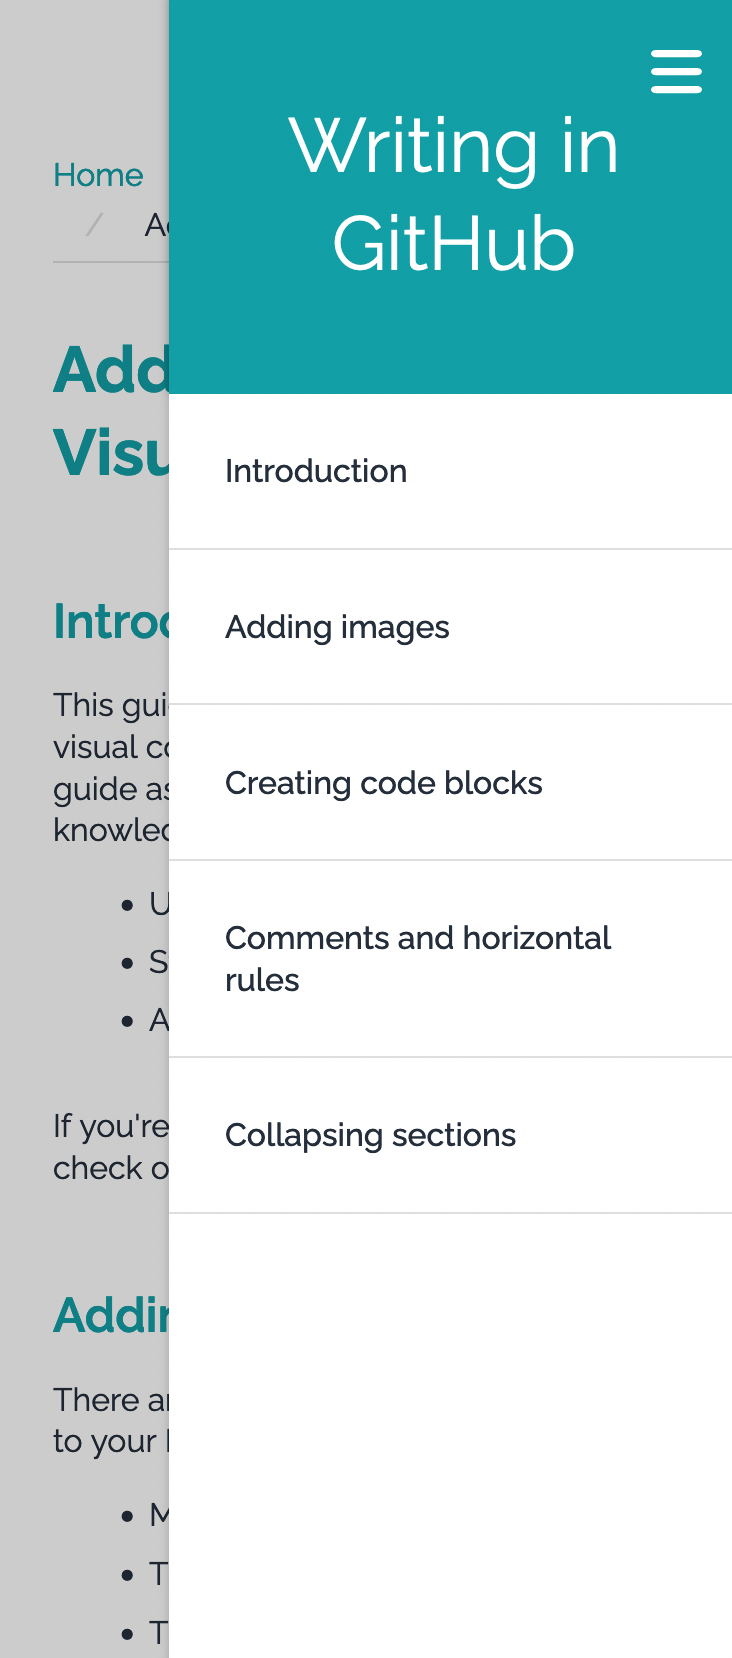
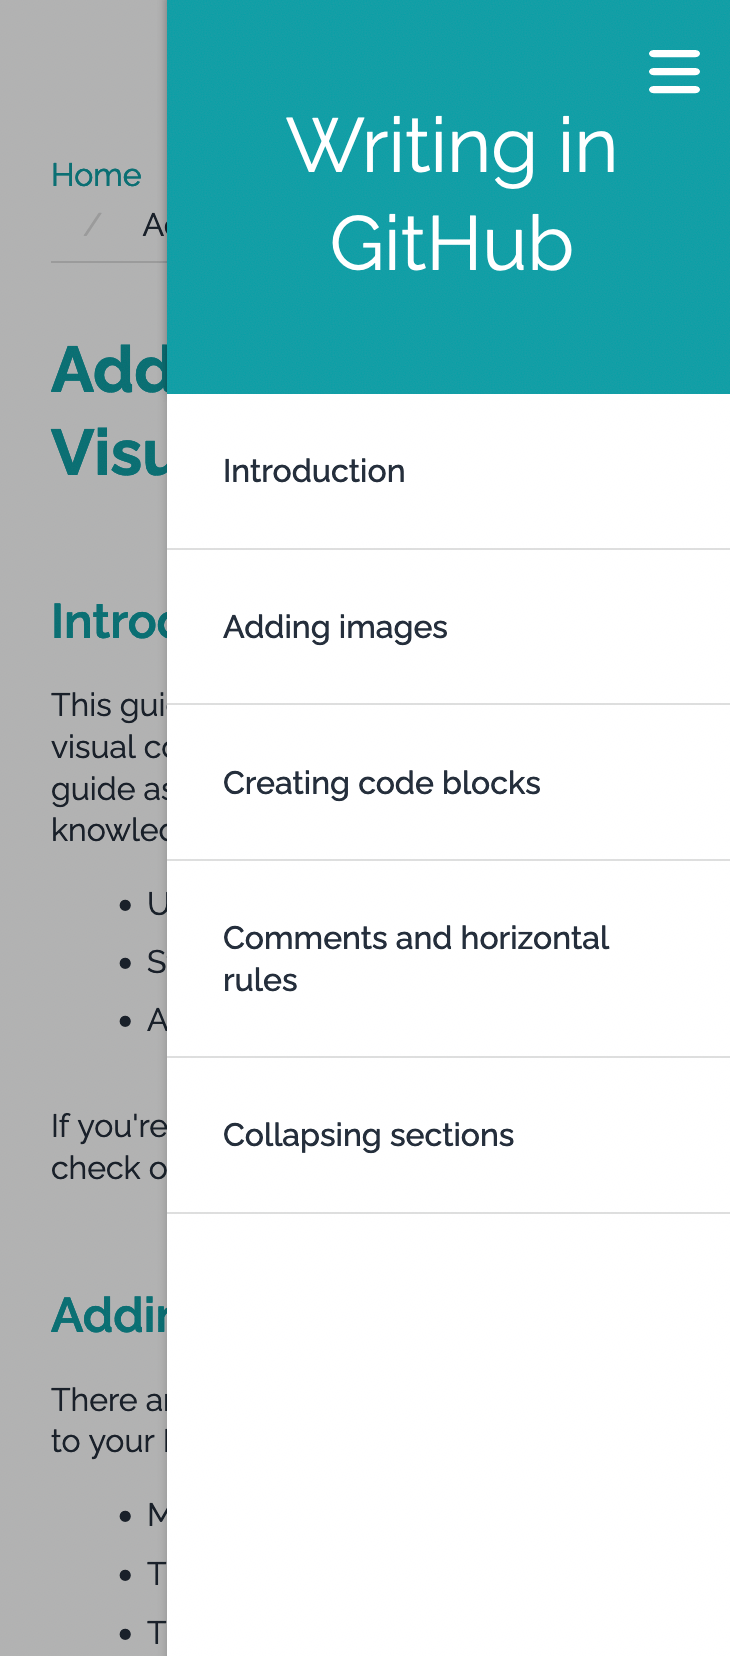
Update styling

diff --git a/styles/style.css b/styles/style.css
@@ -97,13 +97,16 @@ nav a:hover {
   transition-timing-function: ease;
 }
 
-.underlay {
+.overlay {
   width: 100%;
   height: 100vh;
-  background-color: rgba(0, 0, 0, 0.2);
+  background-color: rgba(0, 0, 0, 0.3);
   position: absolute;
   z-index: 4;
-  display: none;
+  visibility: hidden;
+  transition-property: visibility;
+  transition-duration: 0.15s;
+  transition-timing-function: ease;
 }
 
 input {
@@ -115,8 +118,8 @@ input:checked + label rect {
 input:checked ~ .mobile-menu {
   transform: translate(-35.625rem, 0);
 }
-input:checked ~ .underlay {
-  display: block;
+input:checked ~ .overlay {
+  visibility: visible;
 }
 
 label {

diff --git a/styles/style.scss b/styles/style.scss
@@ -153,13 +153,14 @@ nav {
   @include transition(transform, 0.25s, ease);
 }
 
-.underlay {
+.overlay {
   width: 100%;
   height: 100vh;
-  background-color:rgba(0, 0, 0, 0.2);
+  background-color:rgba(0, 0, 0, 0.3);
   position: absolute;
   z-index: 4;
-  display: none;
+  visibility: hidden;
+  @include transition(visibility, 0.15s, ease);
 }
 
 input {
@@ -173,8 +174,8 @@ input {
     ~ .mobile-menu {
       transform: translate(calc($space-base * -17.8125 * 2), 0);
     }
-    ~ .underlay {
-      display: block;
+    ~ .overlay {
+      visibility: visible;
     }
   }
 }

diff --git a/index.html b/index.html
@@ -37,7 +37,7 @@
               <li class="nav-link"><a href="#Collapsing_sections">Collapsing sections</a></li>
             </ul>
         </nav>
-        <div class="underlay"></div>        
+        <div class="overlay"></div>        
       </div>
     </div>
     

diff --git a/README.md b/README.md
@@ -1,7 +1,7 @@
 <div align="center">
   <img 
-    src=""
-    alt=""
+    src="./sass techdoc.png"
+    alt="Technical documentation page with guidance for how to add images and visual elements when writing in GitHub"
     height="350px">
 </div>
 
@@ -27,14 +27,14 @@
 
 <div align="center">
   <img
-    src=""
-    alt=""
+    src="./techdoc mobile-closed.png"
+    alt="Mobile version of technical documentation page showing hamburger menu in upper right corner"
     height="350px">
   <img 
-    src=""
-    alt=""
+    src="./techdoc mobile-open.png"
+    alt="Mobile version of technical documentation page showing visible navigation menu after clicking hamburger menu"
     height="350px">
-  <p><em><em></p>
+  <p><em>Mobile design with menu closed (left) and open (right)<em></p>
 </div>
 
 ### Links
@@ -46,12 +46,11 @@
 ### Built with
 
 - Semantic HTML5 markup
-- Responsive images using the `<img>` element with `srcset` and `sizes` attributes
+- Fluid typography with viewport units and the CSS `clamp()` function
 - CSS variables
-- CSS `mix-blend-mode` for blending backgrounds
+- CSS-only mobile hamburger menu
 - Flexbox
 - Responsive design
-- Realistic workflow, building from professional Figma design files (design-to-code)
 
 
 ### What I learned
@@ -65,8 +64,7 @@ Creating a CSS-only mobile hamburger menu with underlay and slide-in mobile menu
 
 ### Useful resources
 
-- [name]() - 
-- [name]() -
+- [Alvaro Trigo responsive CSS hamburger menu](https://alvarotrigo.com/blog/hamburger-menu-css-responsive/) - On completing my initial build of the mobile menu, I realized something was missing. This tutorial included an overlay that provides a dark background when the mobile menu slides into view, which provided a better visual than the white menu on white background. 
 
 ## Author
 
